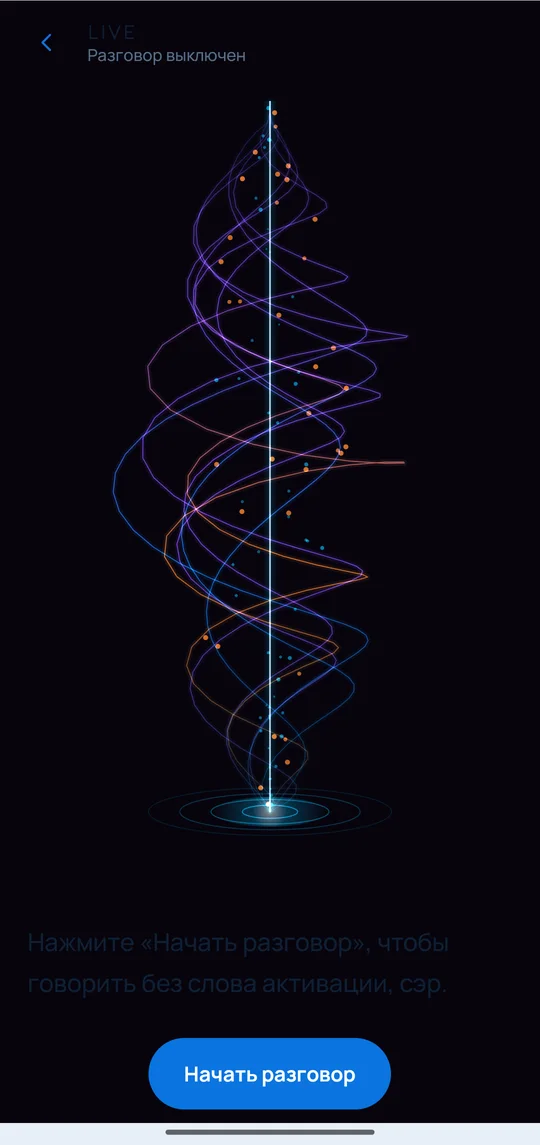
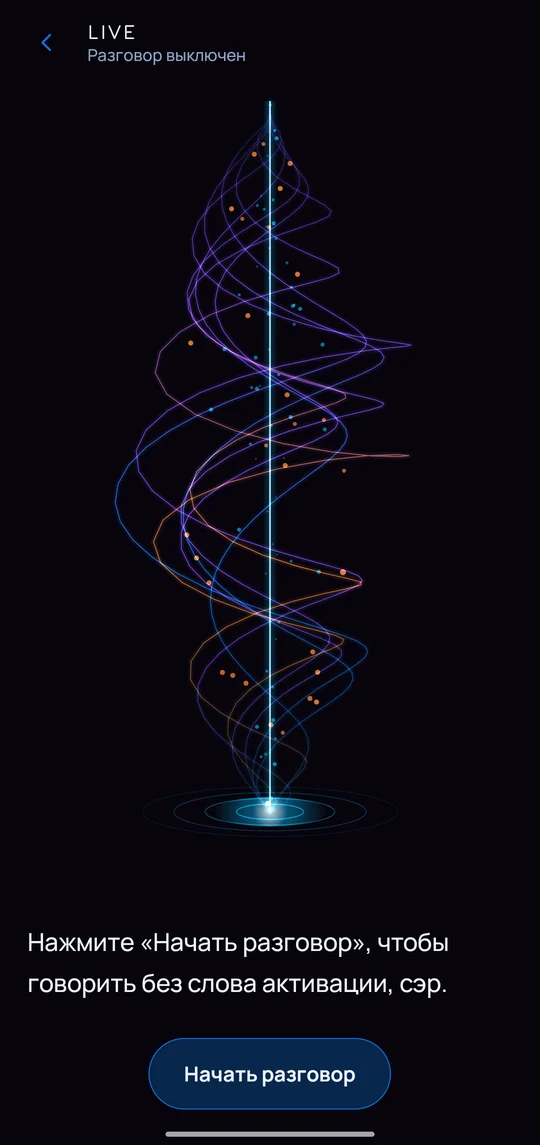
feat(site): describe interface choice, fix light Live shot, new build

diff --git a/website/index.html b/website/index.html
@@ -76,7 +76,7 @@
   <section id="stats" class="stats reveal">
     <div class="stat"><b data-count="37">0</b><span data-i18n="stats.skills">навыков</span></div>
     <div class="stat"><b data-count="60" data-suffix="k">0</b><span data-i18n="stats.lines">строк кода</span></div>
-    <div class="stat"><b data-count="1314">0</b><span data-i18n="stats.tests">автотестов</span></div>
+    <div class="stat"><b data-count="1320">0</b><span data-i18n="stats.tests">автотестов</span></div>
     <div class="stat"><b data-count="0" data-prefix="" data-suffix=" ₽">0</b><span data-i18n="stats.price">цена</span></div>
   </section>
 
@@ -166,7 +166,7 @@
       </div>
     </div>
     <div class="panel" data-panel="old" hidden>
-      <p class="muted center" data-i18n="old.d">Первый интерфейс Jarvis в стиле инженерной консоли. Его можно включить в любой момент: «Ещё → Помощь и диагностика → Прежний интерфейс».</p>
+      <p class="muted center" data-i18n="old.d">Первый интерфейс Jarvis в стиле инженерной консоли. Его выбирают при первом запуске, а потом переключают в «Ещё → Оформление → Интерфейс». Вернуться обратно можно кнопкой «Современный интерфейс» в его «Профиле».</p>
       <div class="phones row">
           <figure class="phone vid"><div class="screen"><video aria-label="Запись экрана Jarvis" src="media/video-old-core.mp4" poster="media/video-old-core.jpg" autoplay muted loop playsinline preload="metadata"></video></div><figcaption data-i18n="old.core">Ядро</figcaption></figure>
           <figure class="phone"><div class="screen"><img src="media/old-core-think.webp" alt="Классический интерфейс Jarvis: обработка запроса" loading="lazy" width="540" height="1145"></div><figcaption data-i18n="old.think">Обрабатываю</figcaption></figure>
@@ -174,6 +174,7 @@
           <figure class="phone vid"><div class="screen"><video aria-label="Запись экрана Jarvis" src="media/video-old-live.mp4" poster="media/video-old-live.jpg" autoplay muted loop playsinline preload="metadata"></video></div><figcaption data-i18n="old.live">Live</figcaption></figure>
       </div>
       <div class="phones row">
+          <figure class="phone"><div class="screen"><img src="media/choose-interface.webp" alt="Jarvis: выбор интерфейса при первом запуске" loading="lazy" width="540" height="1145"></div><figcaption data-i18n="old.choose">Выбор при запуске</figcaption></figure>
           <figure class="phone"><div class="screen"><img src="media/old-scenarios.webp" alt="Классический интерфейс Jarvis: сценарии" loading="lazy" width="540" height="1145"></div><figcaption data-i18n="old.scen">Сценарии</figcaption></figure>
           <figure class="phone"><div class="screen"><img src="media/old-tools.webp" alt="Классический интерфейс Jarvis: инструменты" loading="lazy" width="540" height="1145"></div><figcaption data-i18n="old.tools">Инструменты</figcaption></figure>
           <figure class="phone"><div class="screen"><img src="media/old-system.webp" alt="Классический интерфейс Jarvis: состояние системы" loading="lazy" width="540" height="1145"></div><figcaption data-i18n="old.sys">Система</figcaption></figure>
@@ -189,9 +190,9 @@
         <p class="muted" data-i18n="dl.d">Тестовая версия 0.1.0. Android 10 и новее, процессор arm64, около 200 МБ: модели речи внутри.</p>
         <ol class="steps">
           <li data-i18n="dl.s1">Скачайте APK и разрешите установку из этого источника.</li>
-          <li data-i18n="dl.s2">Выдайте доступ к микрофону и специальным возможностям.</li>
+          <li data-i18n="dl.s2">Выдайте разрешения и выберите интерфейс: современный или классический.</li>
           <li data-i18n="dl.s3">Добавьте бесплатные ключи Groq и Gemini: как это сделать, описано в инструкции ниже.</li>
-          <li data-i18n="dl.s4">Запишите шесть фраз, чтобы Джарвис узнавал ваш голос.</li>
+          <li data-i18n="dl.s4">Пройдите короткий гид: он покажет, как подключить ИИ и записать голос.</li>
         </ol>
       </div>
       <div class="dl-side">
@@ -209,6 +210,7 @@
 <li>Скачайте APK с этой страницы (около 200 МБ).</li>
 <li>Откройте файл. Android попросит разрешить установку из браузера или файлового менеджера: разрешите и вернитесь назад.</li>
 <li>Нажмите «Установить» и откройте Jarvis.</li>
+<li>После разрешений выберите интерфейс: современный или классический. Затем один раз откроется короткий гид с теми же шагами, что ниже. Позже гид есть в настройках, а интерфейс меняется в «Ещё → Оформление».</li>
 </ol>
 <p class="tip">Нужен Android 10 или новее и процессор arm64: это почти все телефоны последних лет.</p></div></details>
       <details class="g"><summary><span class="gn">02</span>Разрешения</summary><div class="gb"><p>При первом запуске Jarvis покажет список доступов. Пройдите каждый пункт кнопкой «Настроить»:</p>
@@ -244,13 +246,15 @@
 </div>
 </div>
 <p><b>Куда вставить:</b> Jarvis → вкладка <b>«Ещё» → «ИИ и модели» → «Облачные ключи»</b>. Нажмите на строку Groq или Gemini, вставьте ключ и нажмите <b>«Сохранить»</b>. Метка сменится на «Сохранён».</p>
-<p>Там же оставьте маршрут <b>«Гибрид»</b> и включите <b>«Использовать ИИ-модель»</b>: простое Jarvis решит сам, сложное отправит в облако, а без сети перейдёт на локальную модель.</p>
+<p>В классическом интерфейсе ключи лежат в <b>«Профиль» → «Общее» → «Облачный LLM»</b>: вставьте ключ в поле и нажмите «Сохранить».</p>
+<p>В современном оставьте маршрут <b>«Гибрид»</b> и включите <b>«Использовать ИИ-модель»</b>: простое Jarvis решит сам, сложное отправит в облако, а без сети перейдёт на локальную модель.</p>
 <p class="tip">Ключи хранятся на телефоне в зашифрованном виде и уходят только в Groq и Google. Никому их не пересылайте. В некоторых странах сайты Groq и Google AI Studio открываются только через VPN.</p></div></details>
       <details class="g"><summary><span class="gn">04</span>Ваш голос</summary><div class="gb"><ol>
 <li><b>«Ещё» → «Голос и слух»</b>. Включите ассистента, если он выключен.</li>
 <li>Нажмите <b>«Скачать модель узнавания»</b>: нужна один раз, 28 МБ.</li>
 <li>Несколько раз скажите «Джарвис», затем прочитайте вслух предложенные фразы. Говорите обычным голосом, в тихом месте.</li>
 <li>Включите <b>«Только мой голос»</b>: чужие голоса и звук из видео перестанут будить Jarvis.</li>
+<li>В классическом интерфейсе запись голоса открывается кнопкой «Записать голос» в гиде.</li>
 </ol>
 <p>Если слово срабатывает слишком часто или редко, поменяйте <b>«Чувствительность»</b> там же. Если голос стал хуже узнаваться, нажмите «Записать голос заново».</p></div></details>
       <details class="g"><summary><span class="gn">05</span>Как говорить с Jarvis</summary><div class="gb"><p>Скажите «Джарвис», дождитесь сигнала или реактора на экране и говорите команду. Можно и сразу одной фразой: «Джарвис, какая погода».</p>
@@ -297,6 +301,7 @@
 <li>Download the APK from this page (about 200 MB).</li>
 <li>Open the file. Android will ask to allow installs from your browser or file manager: allow it and go back.</li>
 <li>Tap “Install” and open Jarvis.</li>
+<li>After the permissions, pick the interface: modern or classic. A short guide with the same steps as below opens once; later it lives in settings, and the interface can be changed in “Ещё → Оформление” (More → Appearance).</li>
 </ol>
 <p class="tip">Requires Android 10 or newer and an arm64 processor: nearly every phone from recent years.</p></div></details>
       <details class="g"><summary><span class="gn">02</span>Permissions</summary><div class="gb"><p>On first launch Jarvis shows a list of permissions. Go through each item with the “Настроить” (Set up) button:</p>
@@ -332,13 +337,15 @@
 </div>
 </div>
 <p><b>Where to paste:</b> Jarvis → <b>“Ещё” (More) → “ИИ и модели” (AI and models) → “Облачные ключи” (Cloud keys)</b>. Tap the Groq or Gemini row, paste the key and tap <b>“Сохранить” (Save)</b>. The label changes to “Сохранён” (Saved).</p>
-<p>On the same screen keep the route on <b>“Гибрид” (Hybrid)</b> and turn on <b>“Использовать ИИ-модель” (Use AI model)</b>: Jarvis handles simple things itself, sends hard ones to the cloud and falls back to the local model offline.</p>
+<p>In the classic interface the keys are in <b>“Профиль” → “Общее” → “Облачный LLM”</b> (Profile → General → Cloud LLM): paste the key and tap Save.</p>
+<p>In the modern one keep the route on <b>“Гибрид” (Hybrid)</b> and turn on <b>“Использовать ИИ-модель” (Use AI model)</b>: Jarvis handles simple things itself, sends hard ones to the cloud and falls back to the local model offline.</p>
 <p class="tip">Keys are stored encrypted on the phone and go only to Groq and Google. Never share them. In some countries the Groq and Google AI Studio sites open only through a VPN.</p></div></details>
       <details class="g"><summary><span class="gn">04</span>Your voice</summary><div class="gb"><ol>
 <li><b>“Ещё” → “Голос и слух”</b> (More → Voice and hearing). Turn the assistant on if it is off.</li>
 <li>Tap <b>“Скачать модель узнавания”</b> (Download recognition model): needed once, 28 MB.</li>
 <li>Say “Jarvis” a few times, then read the suggested phrases aloud. Use your normal voice in a quiet place.</li>
 <li>Turn on <b>“Только мой голос”</b> (Only my voice): other voices and video sound stop waking Jarvis.</li>
+<li>In the classic interface, voice recording opens from the “Record voice” button in the guide.</li>
 </ol>
 <p>If the word triggers too often or too rarely, change the sensitivity there. If recognition gets worse, tap “Записать голос заново” (Record again).</p></div></details>
       <details class="g"><summary><span class="gn">05</span>Talking to Jarvis</summary><div class="gb"><p>Jarvis understands Russian. Say “Джарвис”, wait for the tone or the reactor on screen and give the command. One phrase works too: “Джарвис, какая погода” (what's the weather).</p>

diff --git a/website/i18n.js b/website/i18n.js
@@ -35,14 +35,14 @@ window.I18N = {
     "st.note": "Live has no separate “doing” state: actions run while “thinking” is lit.",
     "th.reactor": "Reactor", "th.gold": "Gold", "th.mark": "Mark", "th.stealth": "Stealth", "th.light": "Light",
     "tp.home": "Home", "tp.skills": "Skills", "tp.live": "Live",
-    "old.d": "The first Jarvis interface, styled as an engineering console. Switch to it any time: “Ещё → Помощь и диагностика → Прежний интерфейс” (More → Help → Classic interface).",
-    "old.core": "Core", "old.think": "Processing", "old.speak": "Speaking", "old.live": "Live", "old.scen": "Scenarios", "old.tools": "Tools", "old.sys": "System", "old.idle": "Core at rest",
+    "old.d": "The first Jarvis interface, styled as an engineering console. It is chosen on first launch and switched later in “Ещё → Оформление → Интерфейс” (More → Appearance → Interface). Go back with the “Modern interface” button in its Profile.",
+    "old.core": "Core", "old.think": "Processing", "old.speak": "Speaking", "old.live": "Live", "old.scen": "Scenarios", "old.tools": "Tools", "old.sys": "System", "old.idle": "Core at rest", "old.choose": "First-launch choice",
     "dl.title": "Download",
     "dl.d": "Test build 0.1.0. Android 10 or newer, arm64 processor, about 200 MB: speech models included.",
     "dl.s1": "Download the APK and allow installs from this source.",
-    "dl.s2": "Grant microphone and accessibility access.",
+    "dl.s2": "Grant the permissions and pick the interface: modern or classic.",
     "dl.s3": "Add free Groq and Gemini keys: the guide below shows how.",
-    "dl.s4": "Record six phrases so Jarvis learns your voice.",
+    "dl.s4": "Go through the short guide: it shows how to connect AI and record your voice.",
     "dl.btn": "Download APK", "dl.note": "jarvis-0.1.0.apk · 201 MB",
     "cr.eyebrow": "Creator", "cr.d": "Designed and built Jarvis single-handedly, from the voice to the agent.",
     "guide.title": "Guide", "guide.d": "Everything to set Jarvis up from scratch and use it every day. Tap an item to expand it.",
